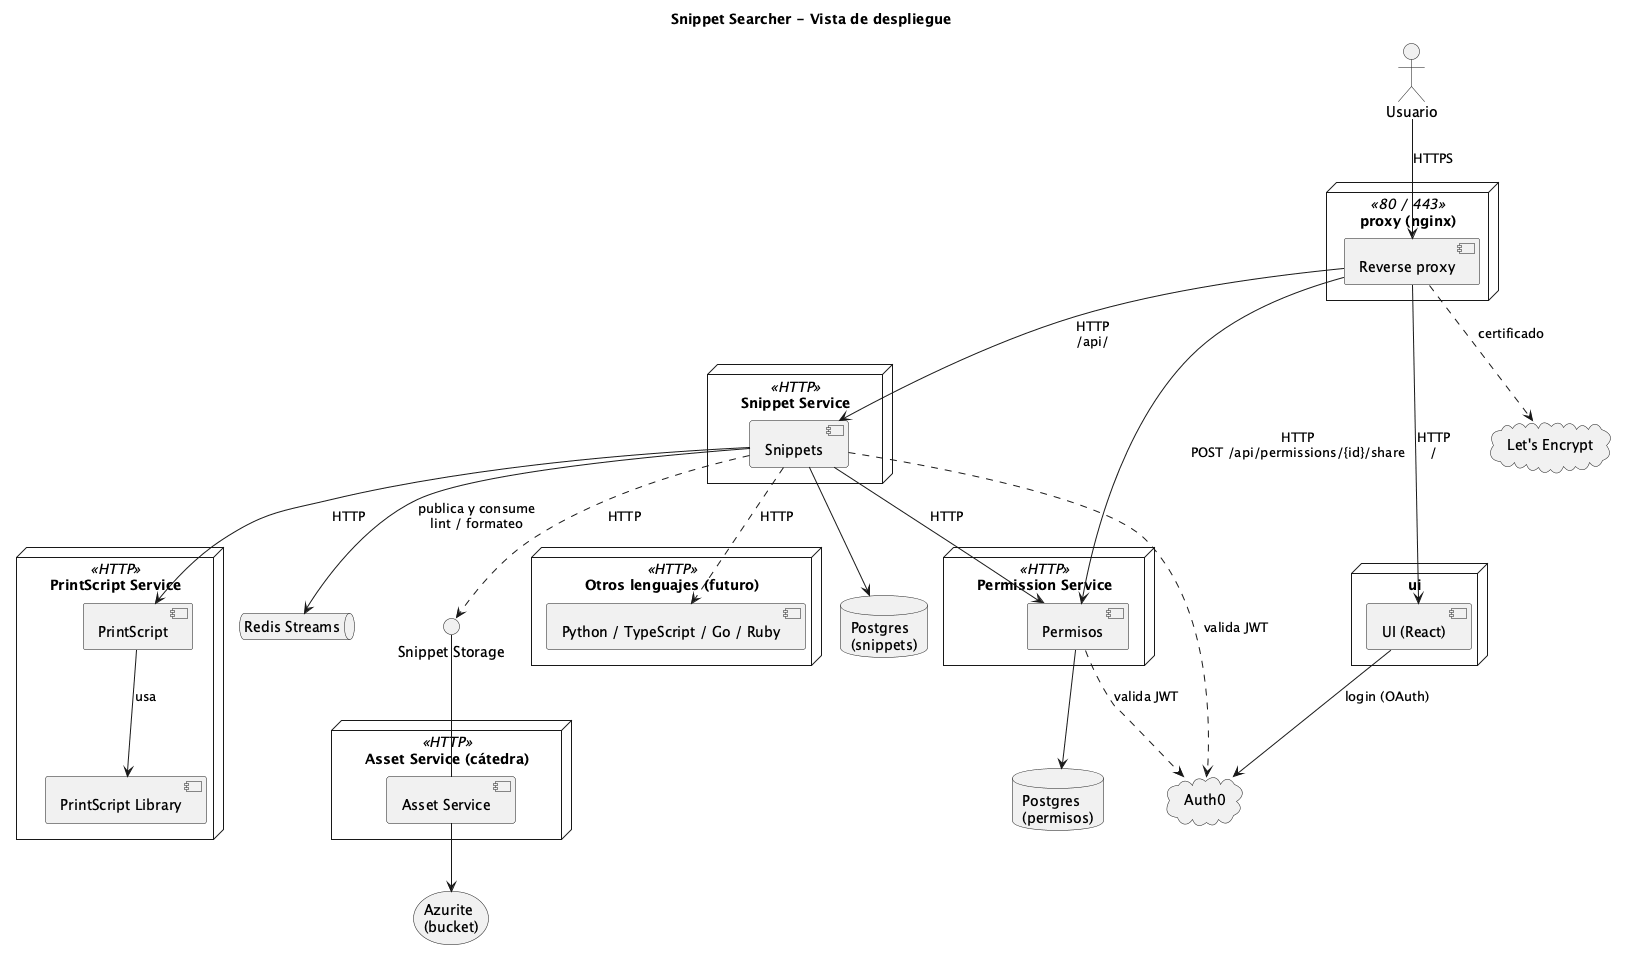
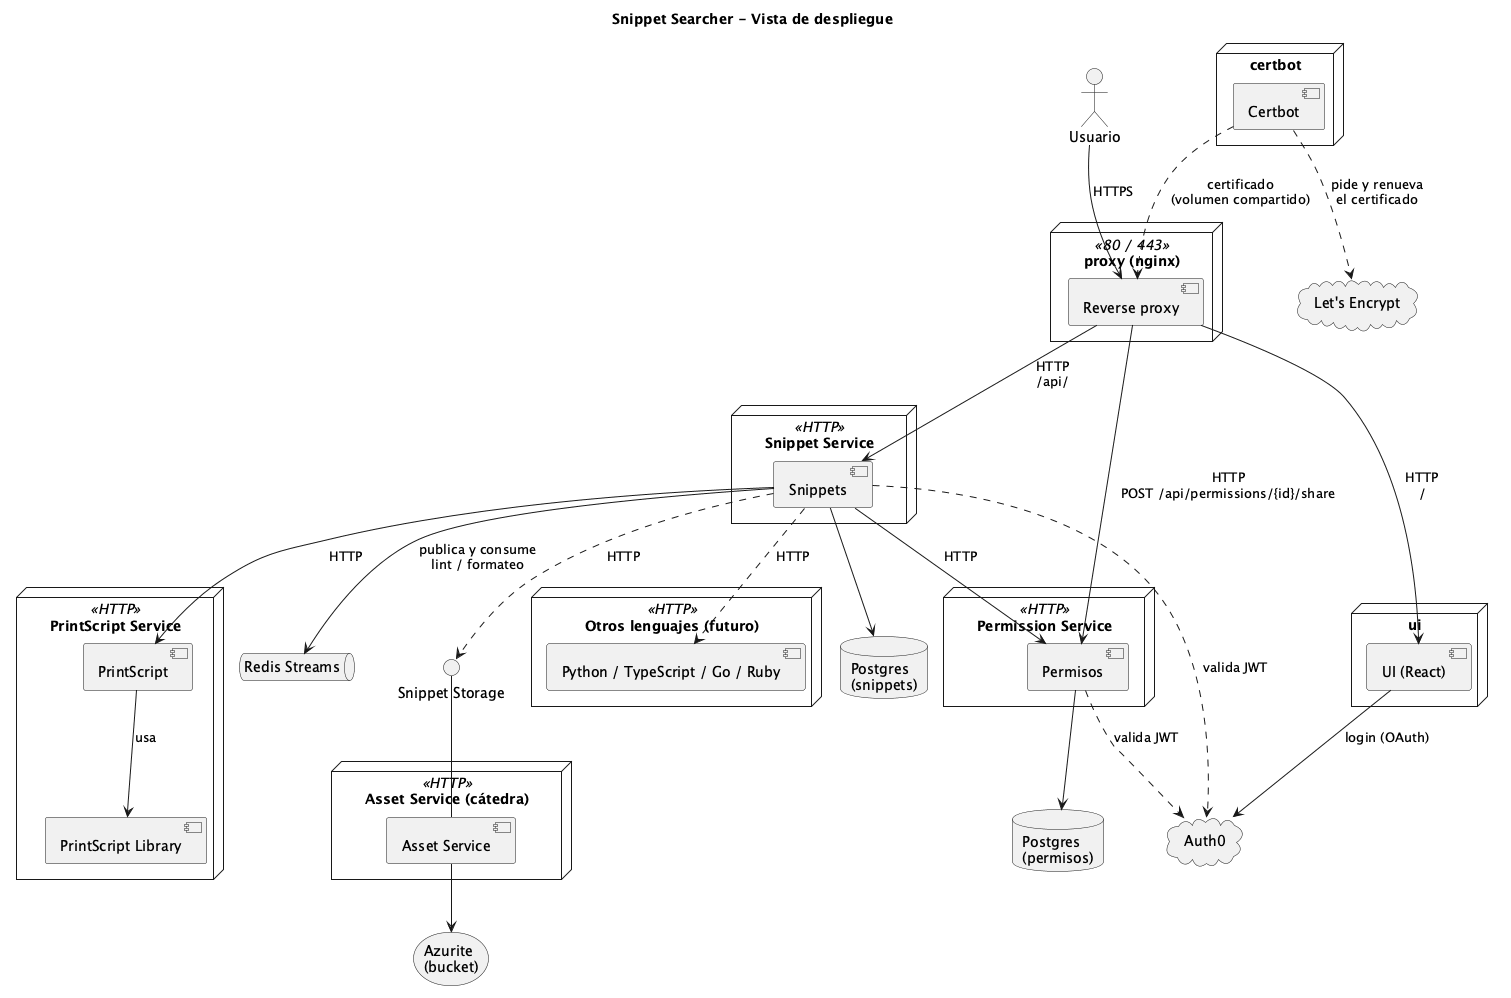
docs: actualiza los diagramas y la tabla de flujos
La verificación del 2026-10-25 encontró documentación desactualizada:

- Compartir figuraba como "Falta". Se marca implementado, y su diagrama
  muestra el 400 al compartirse a uno mismo y que compartir dos veces no
  duplica el permiso.
- Diagrama nuevo de borrar snippet: la fila y el archivo en una
  transacción, y después los permisos.
- La vista de despliegue suma el servicio certbot.

Refs: #51

diff --git a/README.md b/README.md
@@ -205,7 +205,7 @@ Las conexiones `memory` indican que, a nivel lógico, los módulos se llaman com
 
 ### Vista de despliegue
 ![Vista de despliegue](docs/diagramas/componentes-despliegue.png)
-Todo entra por el **proxy** (nginx), con HTTPS: le pasa `/` a la UI, el pedido de compartir (`POST /api/permissions/{id}/share`) a Permisos y el resto de `/api/` a Snippets. Es el único servicio con puertos públicos. Ver [Contrato con la UI](#contrato-con-la-ui).
+Todo entra por el **proxy** (nginx), con HTTPS: le pasa `/` a la UI, el pedido de compartir (`POST /api/permissions/{id}/share`) a Permisos y el resto de `/api/` a Snippets. Es el único servicio con puertos públicos. El servicio `certbot` le consigue y le renueva el certificado de Let's Encrypt. Ver [Contrato con la UI](#contrato-con-la-ui).
 
 Cada módulo se despliega como un servicio independiente con API HTTP. Snippets y Permisos tienen **cada uno su propio Postgres**. El **código de los snippets no va a Postgres**: se guarda en un bucket, detrás de la interfaz `Snippet Storage`. Solo Snippets lo lee y lo escribe: a los servicios de lenguaje les manda el código en cada pedido.
 
@@ -218,7 +218,8 @@ Los flujos más importantes, en PlantUML dentro de [`docs/diagramas/flujos/`](do
 | [Crear snippet](docs/diagramas/flujos/secuencia-crear-snippet.puml) | US-1, US-3 | ✅ Implementado (falta el lint, #23) | Validación con regla, línea y columna; el código va al Asset Service; los metadatos y el owner se guardan en una transacción, y si falla se borra el archivo |
 | [Listar y ver](docs/diagramas/flujos/secuencia-listar-y-ver-snippet.puml) | US-5, US-6 | ✅ Implementado | Permisos dice qué snippets ve el usuario; 404 si no existe y 403 sin acceso |
 | [Actualizar snippet](docs/diagramas/flujos/secuencia-actualizar-snippet.puml) | US-2, US-4, US-16 | ✅ Implementado (faltan el lint, #23, y los tests automáticos, #21) | Solo el owner edita; misma validación que crear; si falla guardar el código, los metadatos no cambian; los tests corren después y no revierten el cambio |
-| [Compartir snippet](docs/diagramas/flujos/secuencia-compartir-snippet.puml) | US-7 | ⏳ Falta (SnippetPermission#14) | Búsqueda de usuarios a medida que se escribe; solo el owner comparte; el invitado solo lee |
+| [Compartir snippet](docs/diagramas/flujos/secuencia-compartir-snippet.puml) | US-7 | ✅ Implementado (falta la búsqueda de usuarios, módulo User) | Solo el owner comparte; el invitado solo lee; 400 si se lo comparte a sí mismo; compartir dos veces no duplica el permiso |
+| [Borrar snippet](docs/diagramas/flujos/secuencia-borrar-snippet.puml) | — | ✅ Implementado | Solo el owner borra; la fila y el archivo en una transacción; después los permisos, y si eso falla el snippet queda borrado igual |
 | [Linting automático](docs/diagramas/flujos/secuencia-linting-automatico.puml) | US-14, US-15 | ⏳ Falta (#18, #23) | Snippet Service se manda trabajo a sí mismo por Redis Streams; confirma el mensaje recién después de guardar y reintenta si falla. El formateo automático (US-12) sigue el mismo flujo |
 
 ![Crear snippet](docs/diagramas/flujos/secuencia-crear-snippet.png)
@@ -228,6 +229,8 @@ Los flujos más importantes, en PlantUML dentro de [`docs/diagramas/flujos/`](do
 ![Actualizar snippet](docs/diagramas/flujos/secuencia-actualizar-snippet.png)
 
 ![Compartir snippet](docs/diagramas/flujos/secuencia-compartir-snippet.png)
+
+![Borrar snippet](docs/diagramas/flujos/secuencia-borrar-snippet.png)
 
 ![Linting automático](docs/diagramas/flujos/secuencia-linting-automatico.png)
 
